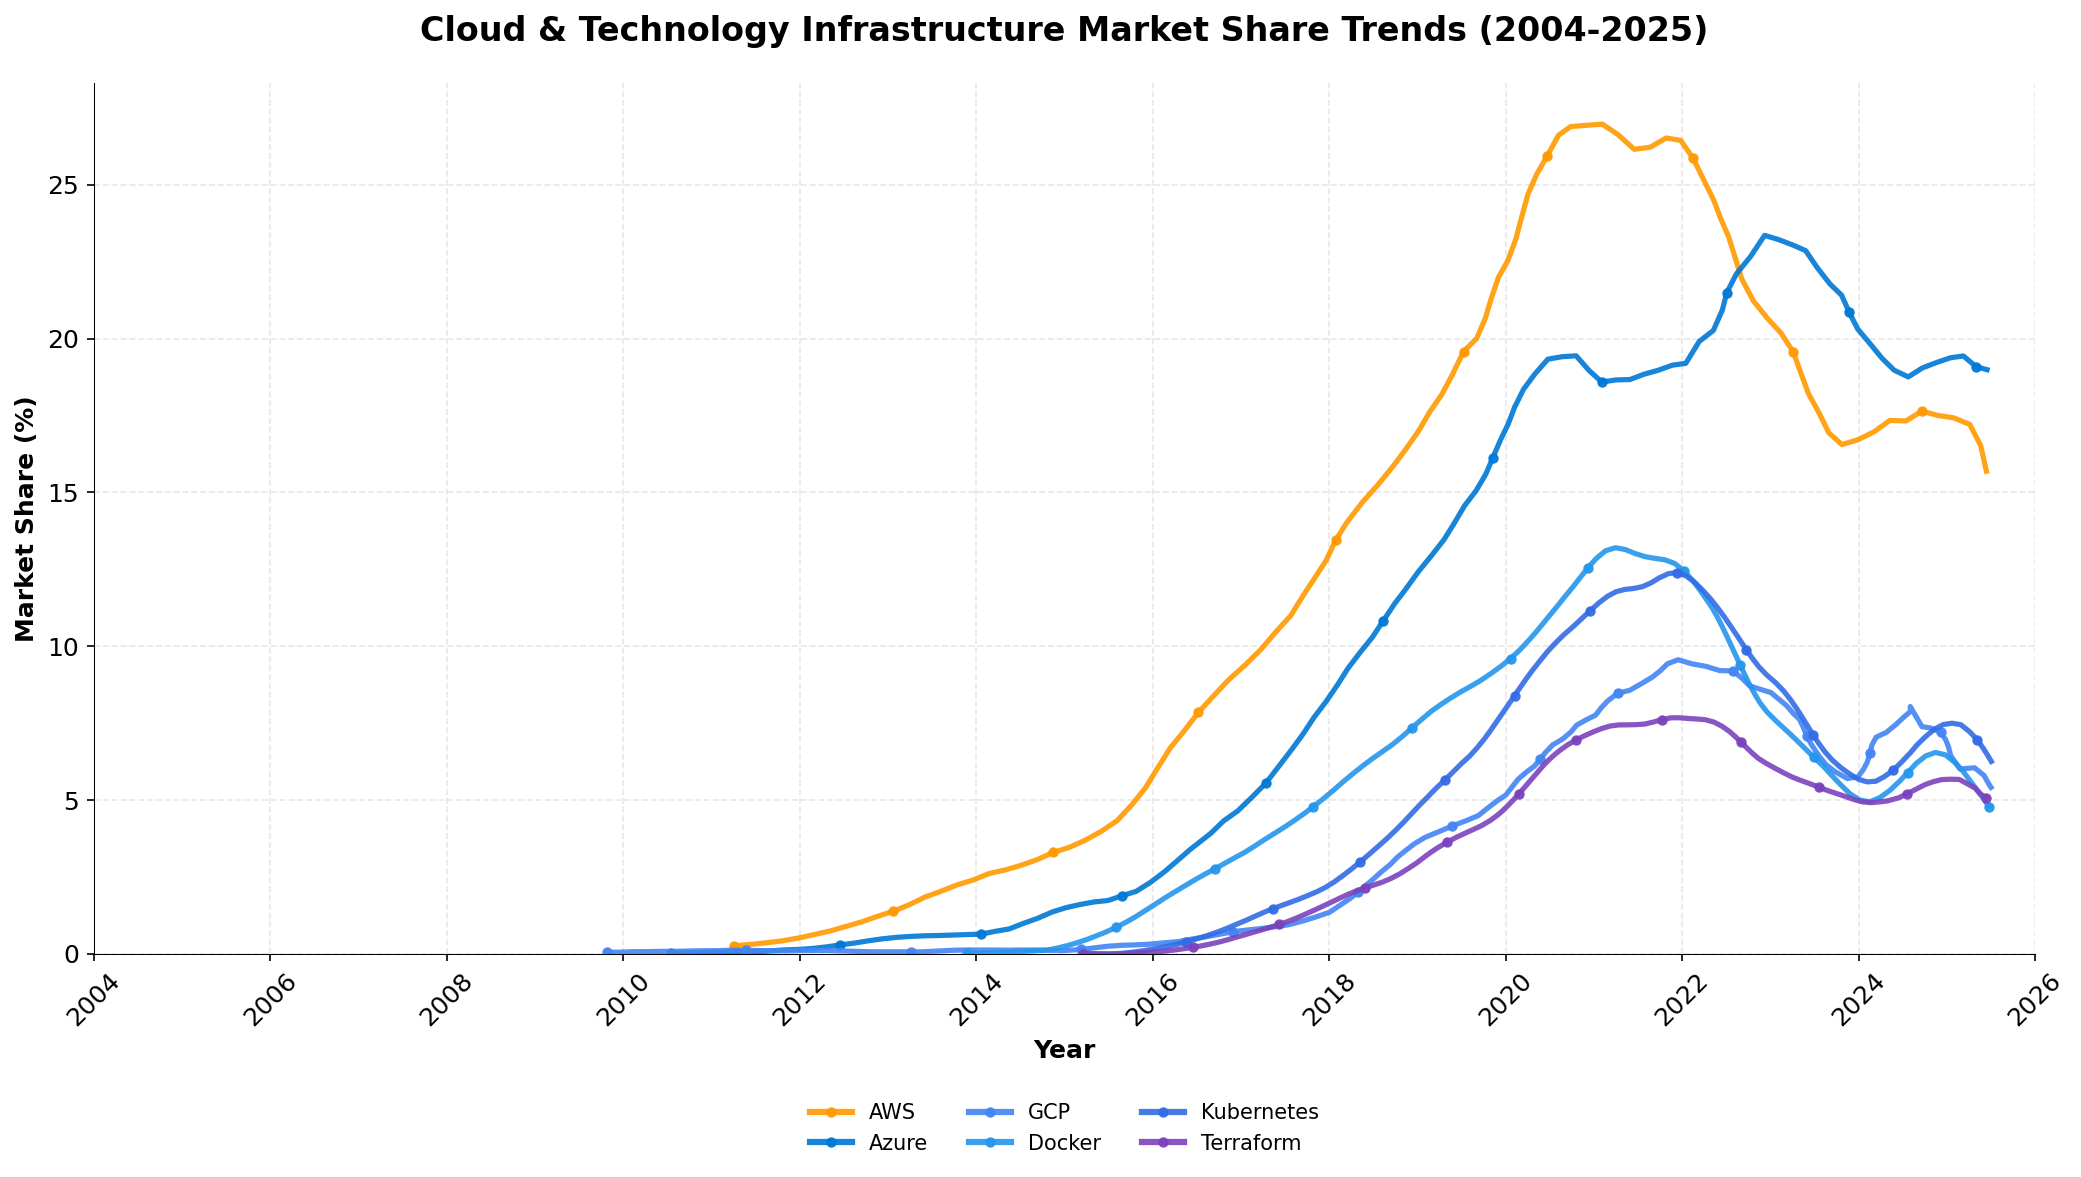
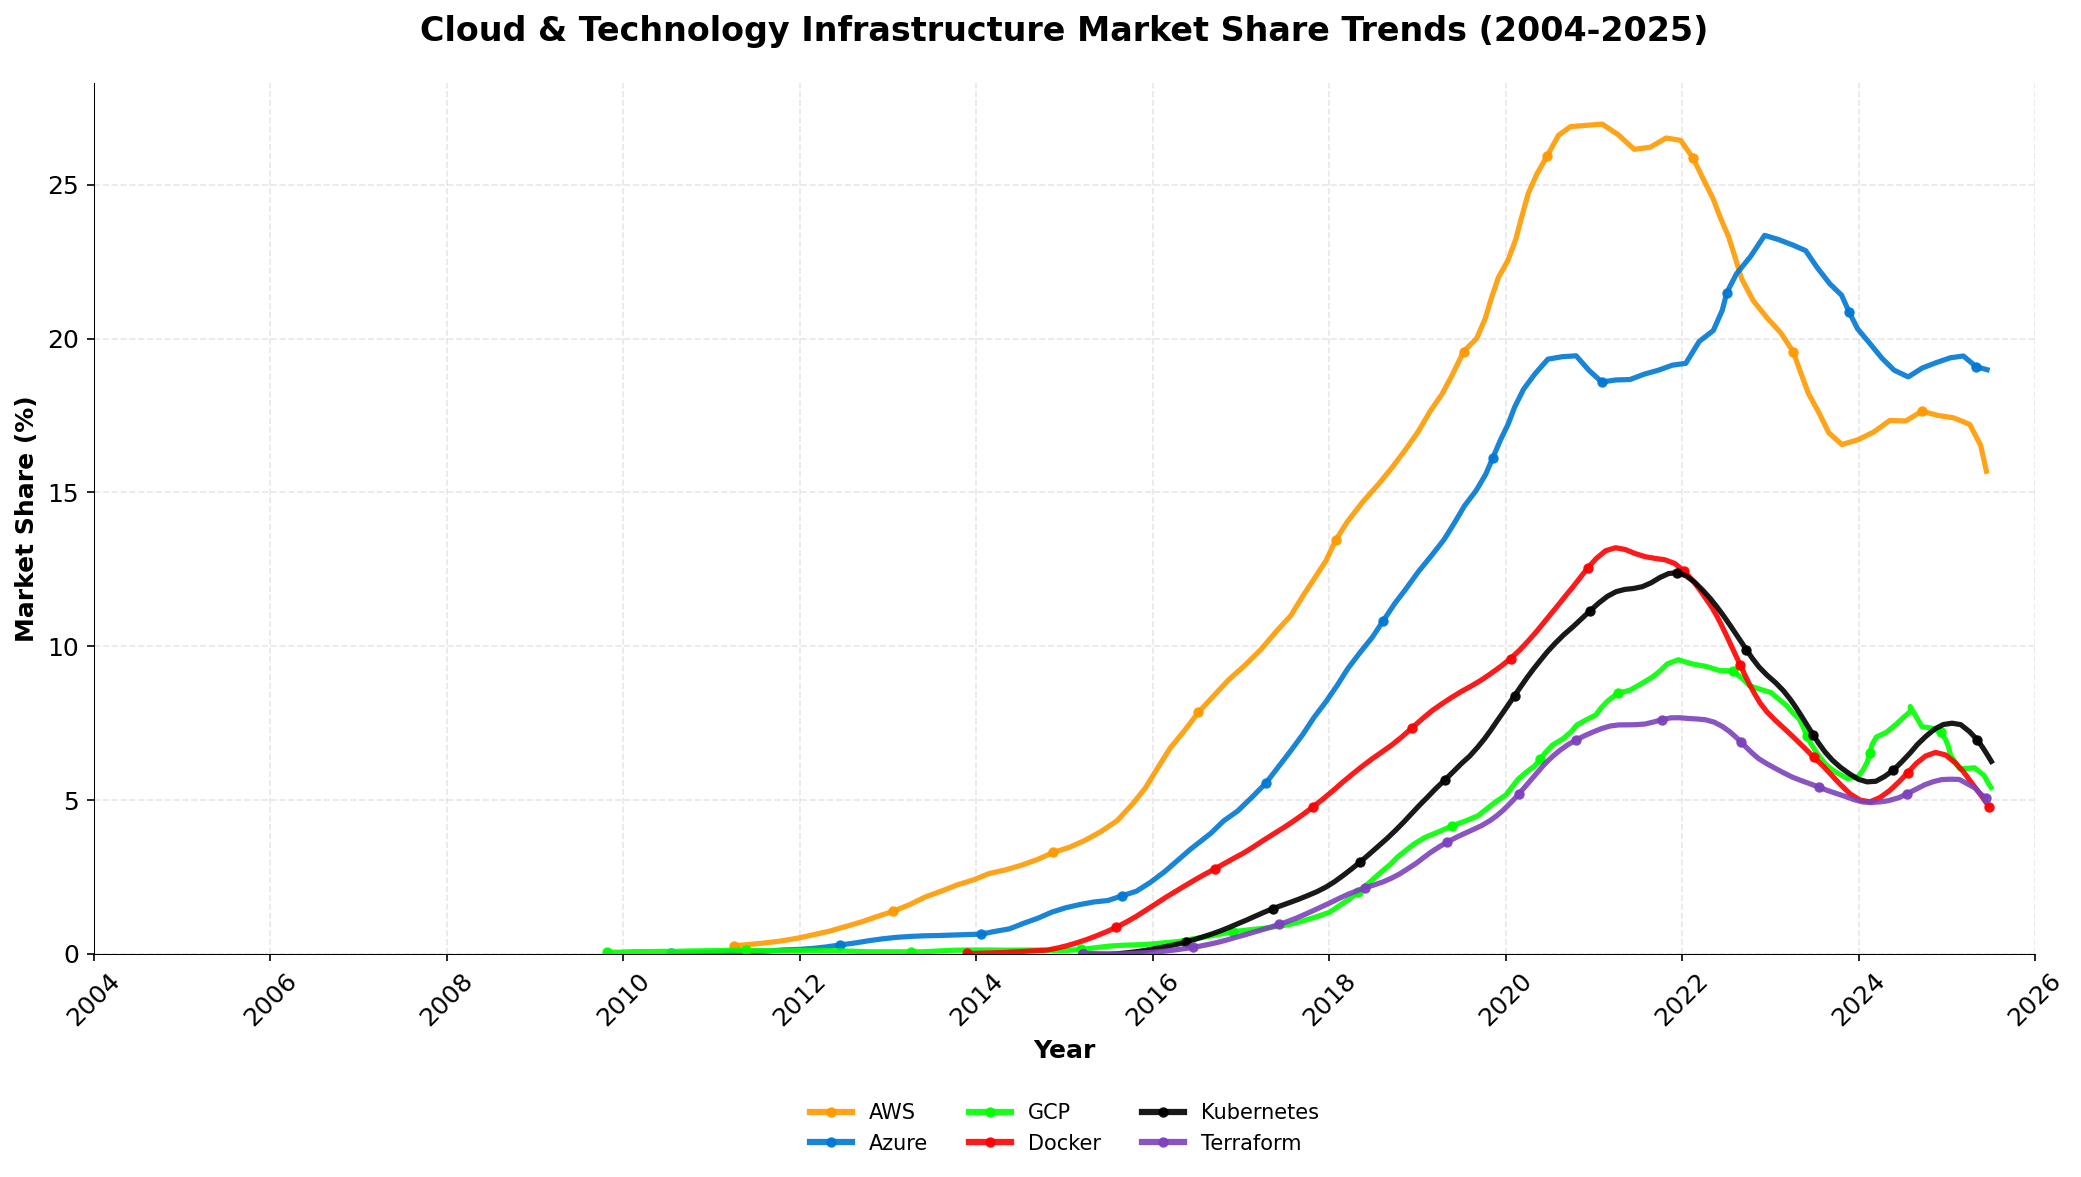
Update color schemes for programming languages, job titles, and themes/sectors
- Changed color values for Python, Data Science, GCP, Docker, and Kubernetes to enhance visual representation.
- Revised the themes and sectors color scheme to incorporate CMYK base colors and distinctive colors for better clarity.
- Updated binary report images for cloud technology, job titles, programming languages, and themes/sectors to reflect the new color schemes.

diff --git a/packages/csv-to-chart/generate_themes_sectors_excl_finance_chart.py b/packages/csv-to-chart/generate_themes_sectors_excl_finance_chart.py
@@ -1,0 +1,124 @@
+"""Script to generate themes and sectors market share trend chart excluding finance."""
+
+import os
+import sys
+import matplotlib.pyplot as plt
+from pathlib import Path
+
+# Add current directory to path for imports
+sys.path.insert(0, str(Path(__file__).parent))
+
+from data_loader import load_themes_sectors_datasets
+from chart_styles import (
+    get_themes_sectors_color_scheme, get_chart_config, style_axes
+)
+
+
+def create_themes_sectors_excl_finance_chart(datasets, output_path):
+    """Create line chart showing themes and sectors market share trends excluding finance.
+    
+    Args:
+        datasets: Dictionary of theme/sector names to (years, market_share) data
+        output_path: Path to save the output PNG file
+    """
+    # Get configuration
+    colors = get_themes_sectors_color_scheme()
+    config = get_chart_config()
+    
+    # Create figure and axis
+    fig, ax = plt.subplots(figsize=config['figure_size'], dpi=config['dpi'])
+    
+    # Plot each theme/sector line, excluding Finance
+    for name, (years, market_shares) in datasets.items():
+        if name.lower() == 'finance':
+            continue  # Skip finance
+        color = colors.get(name, '#666666')
+        ax.plot(
+            years,
+            market_shares,
+            label=name,
+            color=color,
+            linewidth=config['line_width'],
+            marker='o',
+            markersize=config['marker_size'],
+            markevery=10,  # Show markers every 10th point
+            alpha=0.9
+        )
+    
+    # Set labels and title
+    ax.set_xlabel('Year', fontsize=config['label_size'], fontweight='bold')
+    ax.set_ylabel('Market Share (%)', fontsize=config['label_size'], fontweight='bold')
+    ax.set_title(
+        'Themes & Sectors Market Share Trends (Excluding Finance) (2004-2025)',
+        fontsize=config['title_size'],
+        fontweight='bold',
+        pad=20
+    )
+    
+    # Apply styling
+    style_axes(ax, config)
+    
+    # Set x-axis limits and ticks
+    ax.set_xlim(2004, 2026)
+    ax.set_xticks(range(2004, 2027, 2))
+    
+    # Set y-axis to start from 0
+    ax.set_ylim(bottom=0)
+    
+    # Add legend
+    legend = ax.legend(
+        loc='upper center',
+        bbox_to_anchor=(0.5, -0.15),
+        ncol=4,
+        fontsize=config['legend_size'],
+        frameon=False
+    )
+    
+    # Style legend lines
+    for line in legend.get_lines():
+        line.set_linewidth(3)
+    
+    # Adjust layout to prevent label cutoff
+    plt.tight_layout()
+    
+    # Save the chart
+    os.makedirs(os.path.dirname(output_path), exist_ok=True)
+    plt.savefig(output_path, bbox_inches='tight', dpi=150)
+    plt.close()
+    
+    print(f"Chart saved to: {output_path}")
+
+
+def main():
+    """Main execution function."""
+    # Define paths
+    base_dir = Path(__file__).parent.parent.parent
+    data_dir = base_dir / 'api' / 'data' / 'manual' / 'year_market-share'
+    output_dir = base_dir / 'reports'
+    output_path = output_dir / 'themes_sectors_excl_finance_trends.png'
+    
+    # Load data
+    print("Loading themes and sectors CSV data...")
+    datasets = load_themes_sectors_datasets(str(data_dir))
+    
+    if not datasets:
+        print("Error: No themes/sectors data files found!")
+        return
+    
+    # Count datasets excluding finance
+    non_finance_count = sum(1 for name in datasets if name.lower() != 'finance')
+    
+    print(f"Loaded {len(datasets)} themes/sectors datasets ({non_finance_count} excluding finance):")
+    for name in datasets:
+        years, shares = datasets[name]
+        status = " (excluded)" if name.lower() == 'finance' else ""
+        print(f"  - {name}: {len(years)} data points{status}")
+    
+    # Generate chart
+    print("\nGenerating themes & sectors chart (excluding finance)...")
+    create_themes_sectors_excl_finance_chart(datasets, str(output_path))
+    print("Done!")
+
+
+if __name__ == "__main__":
+    main()

diff --git a/packages/csv-to-chart/chart_styles.py b/packages/csv-to-chart/chart_styles.py
@@ -30,7 +30,7 @@ def get_language_color_scheme() -> Dict[str, str]:
         'C#': '#0000FF',           # Blue
         'Java': '#FF0000',         # Red
         'Javascript': '#F7DF1E',   # JavaScript Yellow
-        'Python': '#FFD700',       # Gold
+        'Python': '#00FF00',       # Bright Green
         'TypeScript': '#3178C6'    # TypeScript Blue
     }
 
@@ -86,7 +86,7 @@ def get_job_titles_color_scheme() -> Dict[str, str]:
         'Analyst': '#FF1493',           # Deep Pink
         'Cyber Security': '#00CED1',    # Dark Turquoise
         'Data Analytics': '#FF4500',    # Orange Red
-        'Data Science': '#32CD32',      # Lime Green
+        'Data Science': '#000000',      # Black
         'Devops': '#9370DB',           # Medium Purple
         'Software Engineering': '#1E90FF',  # Dodger Blue
         'Web Development': '#FFD700'    # Gold
@@ -103,31 +103,31 @@ def get_cloud_technology_color_scheme() -> Dict[str, str]:
         # Cloud providers
         'Aws': '#FF9900',              # AWS Orange
         'Azure': '#0078D4',            # Azure Blue
-        'Gcp': '#4285F4',              # Google Blue
+        'Gcp': '#00FF00',              # Bright Green
         # Technologies
-        'Docker': '#2496ED',           # Docker Blue
-        'Kubernetes': '#326CE5',       # Kubernetes Blue
+        'Docker': '#FF0000',           # Bright Red
+        'Kubernetes': '#000000',       # Black
         'Terraform': '#7B42BC'         # Terraform Purple
     }
 
 
 def get_themes_sectors_color_scheme() -> Dict[str, str]:
-    """Get warm earth tones and purples for themes and sectors.
+    """Get CMYK + distinctive colors for themes and sectors.
     
     Returns:
         Dictionary mapping theme/sector names to hex colors
     """
     return {
-        # Themes
-        'Artificial Intelligence': '#8B4513',   # Saddle Brown
-        'Business Intelligence': '#D2691E',     # Chocolate
-        'Machine Learning': '#CD853F',          # Peru
-        'Risk Management': '#A0522D',           # Sienna
-        # Sectors
-        'Customer Service': '#4B0082',          # Indigo
-        'Finance': '#483D8B',                   # Dark Slate Blue
-        'Law': '#6A5ACD',                       # Slate Blue
-        'Marketing': '#9932CC'                  # Dark Orchid
+        # Themes - CMYK base colors
+        'Artificial Intelligence': '#00FFFF',   # Cyan
+        'Business Intelligence': '#FF00FF',     # Magenta
+        'Machine Learning': '#FFFF00',          # Yellow
+        'Risk Management': '#000000',           # Black (K)
+        # Sectors - Distinctive colors
+        'Customer Service': '#FF1493',          # Deep Pink
+        'Finance': '#FF8C00',                   # Dark Orange
+        'Law': '#808080',                       # Grey
+        'Marketing': '#00FF00'                  # Bright Green
     }
 
 
